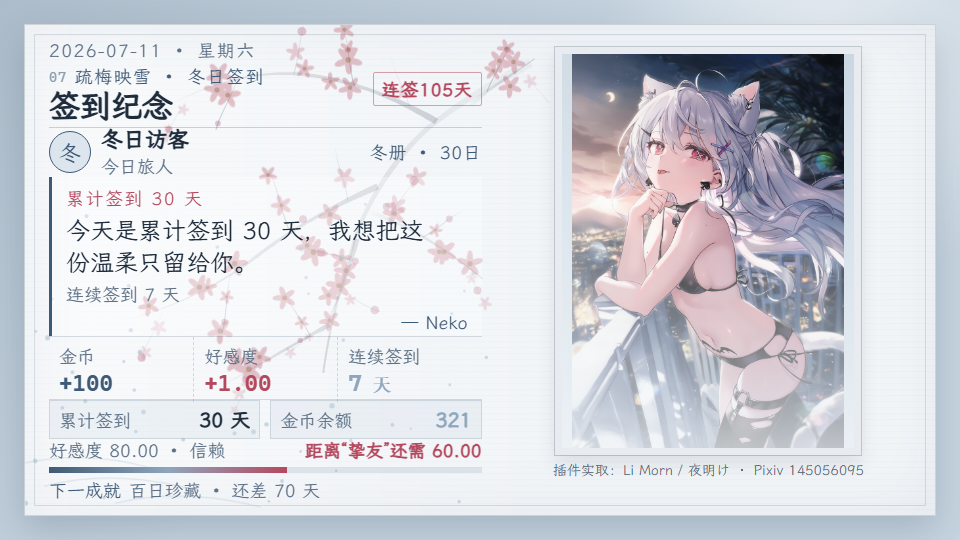
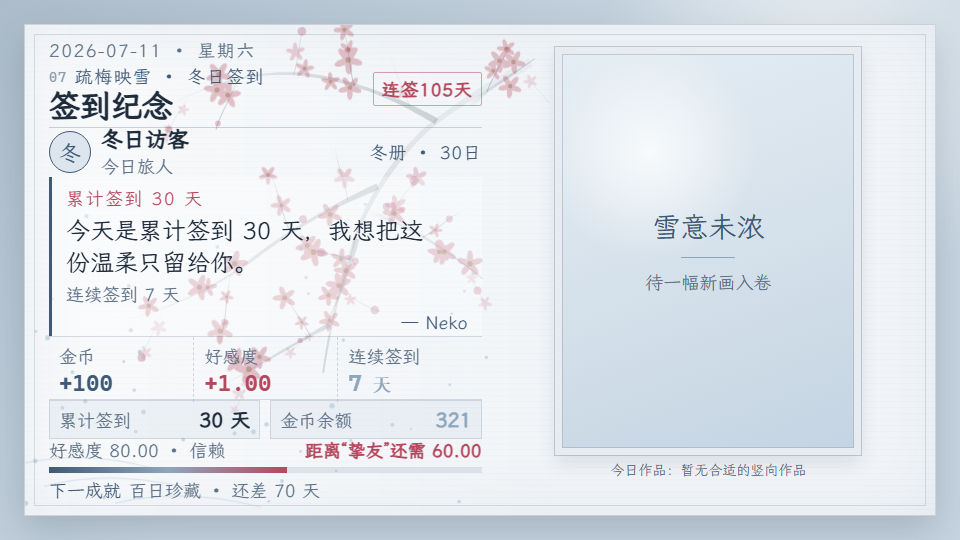
Use artwork-free winter preview

Changed region(s): [[0.5625, 0.0889, 0.9062, 0.8296], [0.5625, 0.8593, 0.9062, 0.8889]]

diff --git a/docs/project/architecture.md b/docs/project/architecture.md
@@ -51,7 +51,7 @@ plugin_api/
 
 每个主题位于 `templates/checkin_themes/<theme_id>/`，并提供 `style.css` 和 `preview.png`；默认、蓝、红、黄主题仍各自提供完整的 `index.html`。四季主题共用 `_shared/index.html` 和 `_shared/layout.css`，主题目录只保留配色样式与 `artwork.svg`，`get_checkin_card_template()` 在运行时将共享壳、主题 SVG 和 CSS 拼成最终自包含 HTML。最终模板会把 CSS 内联进 HTML 的 `/*__CHECKIN_CARD_CSS__*/` 标记，并将字体 base64 填入 `__CHECKIN_CARD_FONT_DATA__`，因此输出不得引用任何外部 URL 或跨目录资源；`test_all_registered_checkin_themes_are_self_contained` 会校验这一点。主题注册在 `checkin/themes.py`，模板内容变化时应同步 `version`，它参与签到卡缓存 key；共享四季壳或布局变化时，需要同步检查四季主题版本和缓存影响。
 
-四季系列（`spring`/`summer`/`autumn`/`winter`）共用同一套布局 class（`.season-card`、`.season-info`）和信息区块，只有调色板、季节文案和装饰 SVG 不同。正式主题目录只保留共享壳所需的 `style.css`、`artwork.svg` 和最终 `preview.png`（冬季另有 README 使用的 `preview_no_artwork.png`）。开发期的构建脚本、预览渲染工具和测试素材只在本地工作区使用，不参与插件运行时和正式提交；改动装饰参数或预览素材后，应在本地重新生成对应正式目录中的 `preview.png`。
+四季系列（`spring`/`summer`/`autumn`/`winter`）共用同一套布局 class（`.season-card`、`.season-info`）和信息区块，只有调色板、季节文案和装饰 SVG 不同。正式主题目录只保留共享壳所需的 `style.css`、`artwork.svg` 和最终 `preview.png`。开发期的构建脚本、预览渲染工具和测试素材只在本地工作区使用，不参与插件运行时和正式提交；改动装饰参数或预览素材后，应在本地重新生成对应正式目录中的 `preview.png`。
 
 ## 前端页面
 

diff --git a/README.md b/README.md
@@ -37,7 +37,7 @@
 | :---: | :---: |
 | ![新柳](templates/checkin_themes/spring/preview.png) | ![荷风](templates/checkin_themes/summer/preview.png) |
 | `06` · 丹枫 | `07` · 寒梅 |
-| ![丹枫](templates/checkin_themes/autumn/preview.png) | ![寒梅](templates/checkin_themes/winter/preview_no_artwork.png) |
+| ![丹枫](templates/checkin_themes/autumn/preview.png) | ![寒梅](templates/checkin_themes/winter/preview.png) |
 
 签到卡支持 `省流量`（960×540）、`清晰`（1248×702）和 `极致`（1728×972）三档。`/签到商店 主题查看 <编号>` 可免费看预览（如 `/签到商店 主题查看 1`），不扣金币、不切换主题。
 
